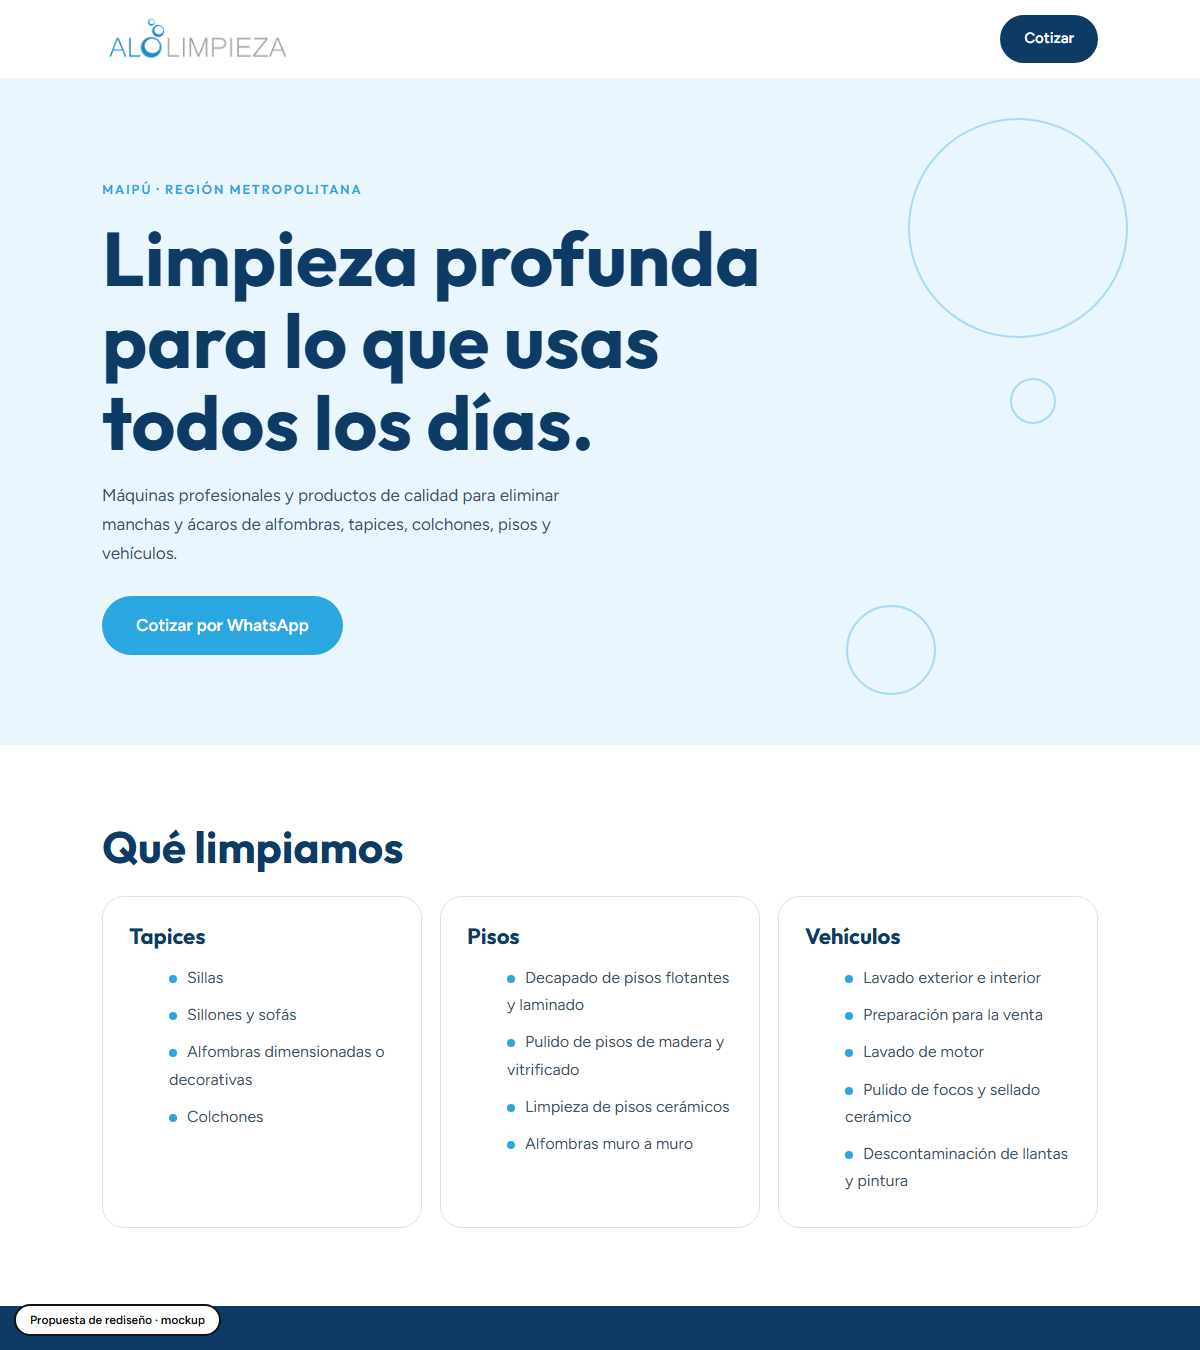
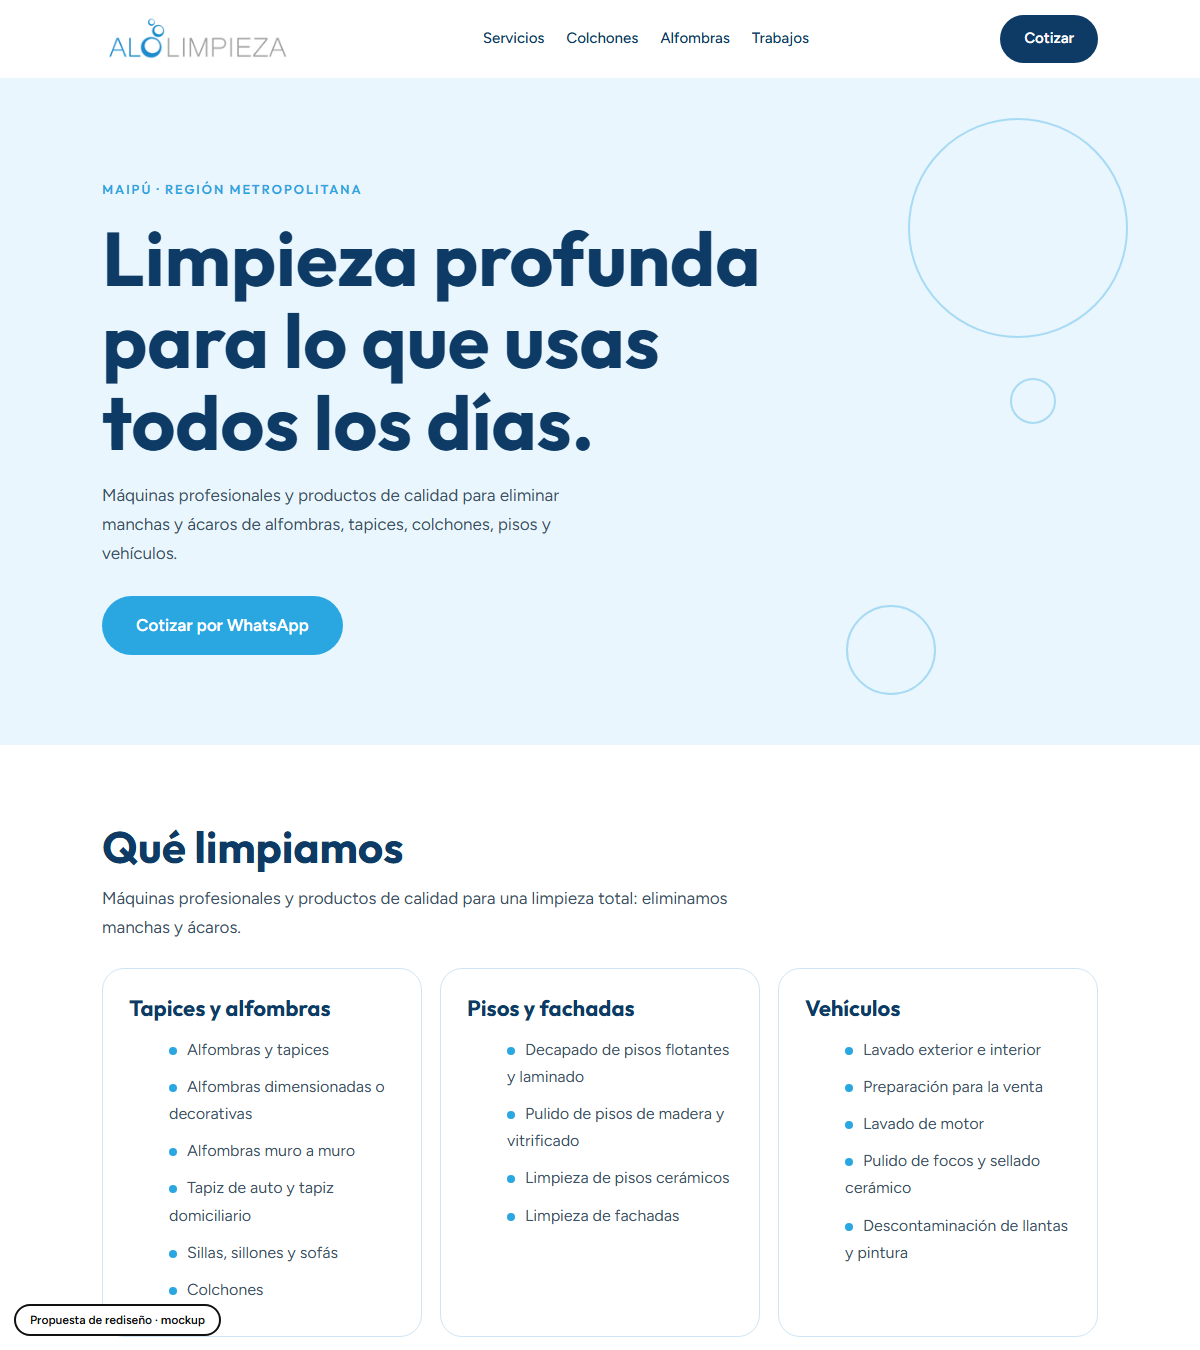
Mockup: alo-limpieza-maipu

diff --git a/alo-limpieza-maipu/index.html b/alo-limpieza-maipu/index.html
@@ -6,7 +6,7 @@
 <link href="https://fonts.googleapis.com/css2?family=Outfit:wght@500;600;700&family=Figtree:wght@400;500;600&display=swap" rel="stylesheet">
 <style>
 :root{--aqua:#2aa7e1;--navy:#0d3b66;--foam:#eaf6fd;--ink:#13293d;--line:#cfe5f3}
-*{box-sizing:border-box;margin:0}html{scroll-behavior:smooth}
+*{box-sizing:border-box;margin:0}html{scroll-behavior:smooth;scroll-padding-top:100px}
 @media(prefers-reduced-motion:reduce){html{scroll-behavior:auto}}
 body{background:#fff;color:var(--ink);font:400 17px/1.7 Figtree,sans-serif}
 .wrap{max-width:1040px;margin:0 auto;padding:0 22px}
@@ -33,17 +33,19 @@ section{padding:78px 0}h2{font-size:clamp(28px,4.2vw,44px);color:var(--navy);mar
 .contact{text-align:center}.contact a.l{display:block;font:700 clamp(34px,6vw,62px) Outfit;color:var(--aqua);text-decoration:none;margin:10px 0}
 .contact a.l:hover{color:var(--navy)}
 footer{padding:22px 0 90px;text-align:center;font-size:13px;color:#7a8da0}
-.mock{position:fixed;left:14px;bottom:14px;background:#fff;color:#111;border:2px solid #111;font:600 12px/1 Figtree;padding:8px 14px;border-radius:30px;z-index:9}
+.mock{z-index:30;position:fixed;left:14px;bottom:14px;background:#fff;color:#111;border:2px solid #111;font:600 12px/1 Figtree;padding:8px 14px;border-radius:30px;z-index:9}
 @media(max-width:820px){.g3{grid-template-columns:1fr}.hero .wrap{padding:56px 22px}}
-</style></head><body>
-<header><div class="wrap"><img src="assets/cropped-logo.png" alt="Aló Limpieza"><a class="b" href="#contacto">Cotizar</a></div></header>
+nav{display:flex;gap:22px;font-size:15px;font-weight:500}nav a{color:var(--navy);text-decoration:none}nav a:hover{color:var(--aqua)}.two{display:grid;grid-template-columns:1.2fr 1fr;gap:40px;align-items:start}.two p{margin-bottom:12px;color:#3b5368}.big{background:var(--navy);color:#fff;border-radius:22px;padding:34px 30px}.big b{display:block;font:700 54px/1 Outfit;color:var(--aqua)}.big span{display:block;margin-bottom:16px;color:#cfe3f3;font-size:15.5px}.feat{background:var(--foam)}.pill{display:inline-block;background:var(--aqua);color:#fff;border-radius:30px;padding:6px 20px;font-weight:600;margin:6px 8px 0 0;font-size:15px}.ticks{list-style:none;padding:0;margin-top:14px}.ticks li{padding:5px 0 5px 28px;position:relative;color:#3b5368}.ticks li:before{content:"✓";position:absolute;left:0;color:var(--aqua);font-weight:700}@media(max-width:820px){nav{display:none}.two{grid-template-columns:1fr}}</style></head><body>
+<header><div class="wrap"><img src="assets/cropped-logo.png" alt="Aló Limpieza"><nav><a href="#servicios">Servicios</a><a href="#colchones">Colchones</a><a href="#alfombras">Alfombras</a><a href="#trabajos">Trabajos</a></nav><a class="b" href="#contacto">Cotizar</a></div></header>
 <div class="hero"><i class="bub" style="width:220px;height:220px;right:6%;top:40px"></i><i class="bub" style="width:90px;height:90px;right:22%;bottom:50px"></i><i class="bub" style="width:46px;height:46px;right:12%;top:300px"></i>
 <div class="wrap"><small>Maipú · Región Metropolitana</small><h1>Limpieza profunda para lo que usas todos los días.</h1><p>Máquinas profesionales y productos de calidad para eliminar manchas y ácaros de alfombras, tapices, colchones, pisos y vehículos.</p><a class="btn" href="https://wa.me/56991250716?text=Hola%2C%20quisiera%20cotizar%20una%20limpieza">Cotizar por WhatsApp</a></div></div>
-<section><div class="wrap"><h2>Qué limpiamos</h2><div class="g3">
-<div><h3>Tapices</h3><ul><li>Sillas</li><li>Sillones y sofás</li><li>Alfombras dimensionadas o decorativas</li><li>Colchones</li></ul></div>
-<div><h3>Pisos</h3><ul><li>Decapado de pisos flotantes y laminado</li><li>Pulido de pisos de madera y vitrificado</li><li>Limpieza de pisos cerámicos</li><li>Alfombras muro a muro</li></ul></div>
+<section id="servicios"><div class="wrap"><h2>Qué limpiamos</h2><p style="max-width:62ch;color:#3b5368">Máquinas profesionales y productos de calidad para una limpieza total: eliminamos manchas y ácaros.</p><div class="g3">
+<div><h3>Tapices y alfombras</h3><ul><li>Alfombras y tapices</li><li>Alfombras dimensionadas o decorativas</li><li>Alfombras muro a muro</li><li>Tapiz de auto y tapiz domiciliario</li><li>Sillas, sillones y sofás</li><li>Colchones</li></ul></div>
+<div><h3>Pisos y fachadas</h3><ul><li>Decapado de pisos flotantes y laminado</li><li>Pulido de pisos de madera y vitrificado</li><li>Limpieza de pisos cerámicos</li><li>Limpieza de fachadas</li></ul></div>
 <div><h3>Vehículos</h3><ul><li>Lavado exterior e interior</li><li>Preparación para la venta</li><li>Lavado de motor</li><li>Pulido de focos y sellado cerámico</li><li>Descontaminación de llantas y pintura</li></ul></div></div></div></section>
-<section class="work"><div class="wrap"><h2>Trabajos realizados</h2><p style="color:#bcd6ea;max-width:52ch">Fotos de trabajos de Aló Limpieza: tapices, asientos de auto y alfombras.</p><div class="imgs"><img src="assets/1.jpg" alt="Limpieza de un sillón tapizado" loading="lazy"><img src="assets/2.jpg" alt="Limpieza de asiento de auto" loading="lazy"><img src="assets/3.jpg" alt="Limpieza de alfombra con máquina profesional" loading="lazy"></div></div></section>
+<section id="colchones" class="feat"><div class="wrap two"><div><h2>Lavado y sanitización de colchones</h2><p>Con tecnología de inyección y succión llegan a todos los rincones del colchón: eliminan ácaros, bacterias, hongos y malos olores, con productos 100% biodegradables, para una limpieza eficaz y un secado extra rápido.</p><p>También eliminan las manchas y los residuos que se adhieren con el uso permanente.</p><ul class="ticks"><li>Humedad final de solo 8%, para secar rápido</li><li>Retiro y entrega sin costo para Maipú</li><li>Servicio garantizado, con calidad y cumplimiento</li></ul></div><div class="big"><b>+3.500</b><span>usuarios han disfrutado del servicio de lavado de colchones.</span><b>8%</b><span>de humedad relativa al terminar.</span></div></div></section>
+<section id="alfombras"><div class="wrap two"><div class="big"><b>+1 millón</b><span>de metros cuadrados de alfombras y tapetes limpiados al año, para miles de hogares y empresas en Chile.</span><b>99,5%</b><span>de desinfección de las superficies.</span></div><div><h2>Limpiadores profesionales de alfombras</h2><p>Un servicio personalizado, con alfombras y tapetes más secos y un hogar más saludable para ti y tu familia.</p><p>Sus equipos usan inyección y extracción de agua, con un limpiador de alfombras con sanitizante único, que da resultados notorios.</p><p><span class="pill">Desde $2.000 el m² en casas y departamentos</span></p><p style="margin-top:12px">El valor depende de los metros cuadrados. Solicita una visita técnica sin costo por correo o WhatsApp.</p></div></div></section>
+<section id="trabajos" class="work"><div class="wrap"><h2>Trabajos realizados</h2><p style="color:#bcd6ea;max-width:52ch">Fotos de trabajos de Aló Limpieza durante el último año: tapices, asientos de auto y alfombras.</p><div class="imgs"><img src="assets/1.jpg" alt="Limpieza de un sillón tapizado" loading="lazy"><img src="assets/2.jpg" alt="Limpieza de asiento de auto" loading="lazy"><img src="assets/3.jpg" alt="Limpieza de alfombra con máquina profesional" loading="lazy"></div></div></section>
 <section class="contact" id="contacto"><div class="wrap"><h2>Pide tu cotización</h2><a class="l" href="https://wa.me/56991250716">+56 9 9125 0716</a><p>Chacabuco 592, Maipú<br><a style="color:var(--navy)" href="mailto:contacto@alolimpieza.cl">contacto@alolimpieza.cl</a></p></div></section>
 <footer>ALÓ LIMPIEZA · MAIPÚ</footer>
 <div class="mock">Propuesta de rediseño · mockup</div></body></html>
